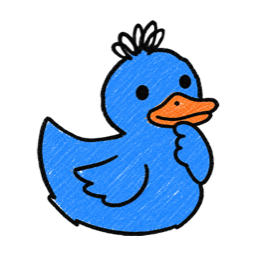
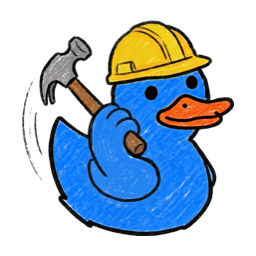
Give bash its own construction pose instead of sharing thinking with search/other

diff --git a/tools/generate_dock_icons.swift b/tools/generate_dock_icons.swift
@@ -241,7 +241,7 @@ let fileManager = FileManager.default
 // per-bucket art is a later refinement once more poses exist.
 let poseForState: [(output: String, adjective: String)] = [
     ("idle", "idle"),
-    ("bash", "thinking"),
+    ("bash", "construction"),
     ("search", "thinking"),
     ("other", "thinking"),
     ("eureka", "eureka"),
